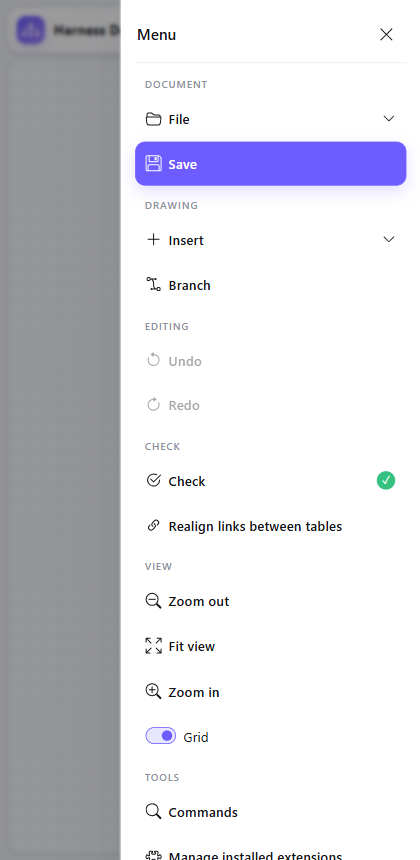
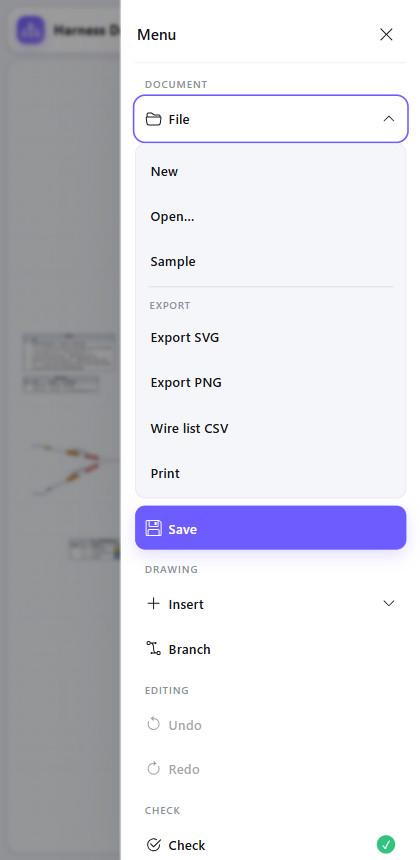
feat(ui): unfold submenus in place inside the drawer
On a phone a floating menu was the wrong answer twice: it covered the list it
came from, and it needed the drawer closed to have room. Sections now unfold
under the button that opened them, one at a time, and the drawer stays where it
was. On a wide screen the dropdown is unchanged.

diff --git a/src/ui/topbar.ts b/src/ui/topbar.ts
@@ -116,8 +116,70 @@ function brand(name: string, tagline: string): HTMLElement {
   return box;
 }
 
+/** True while the bar is a drawer rather than a row. */
+const inDrawer = (): boolean => window.innerWidth <= 860;
+
+/**
+ * Expands the entries in place, under the button that asked for them.
+ *
+ * In the drawer a floating menu would be the wrong answer twice: it covers the
+ * list it came from, and it has to close the drawer to have room. Unfolding
+ * keeps the place you were reading, which is how a menu on a phone behaves.
+ */
+function expandInline(anchor: HTMLElement, items: MenuItem[]): void {
+  const group = anchor.parentElement;
+  if (!group) return;
+  const existing = anchor.nextElementSibling;
+  const already = existing?.classList.contains("navsub") === true;
+
+  // one open section at a time, so the list never turns into a wall
+  group
+    .closest(".topbar__nav")
+    ?.querySelectorAll(".navsub")
+    .forEach((n) => n.remove());
+  group
+    .closest(".topbar__nav")
+    ?.querySelectorAll("[aria-expanded=true][aria-haspopup]")
+    .forEach((b) => b.setAttribute("aria-expanded", "false"));
+  if (already) {
+    anchor.setAttribute("aria-expanded", "false");
+    return;
+  }
+
+  const sub = document.createElement("div");
+  sub.className = "navsub";
+  for (const item of items) {
+    if ("separator" in item) {
+      const line = document.createElement("div");
+      line.className = "navsub__sep";
+      sub.appendChild(line);
+      continue;
+    }
+    if ("header" in item) {
+      const head = document.createElement("div");
+      head.className = "navsub__header";
+      head.textContent = item.header;
+      sub.appendChild(head);
+      continue;
+    }
+    const entry = document.createElement("button");
+    entry.type = "button";
+    entry.className = "btn navsub__item" + (item.danger ? " btn--danger" : "");
+    entry.disabled = item.disabled === true;
+    entry.textContent = item.label;
+    entry.addEventListener("click", item.run);
+    sub.appendChild(entry);
+  }
+  anchor.setAttribute("aria-expanded", "true");
+  anchor.after(sub);
+}
+
 /** Opens a menu anchored under the button that asked for it. */
 function dropdown(anchor: HTMLElement, items: MenuItem[]): void {
+  if (inDrawer()) {
+    expandInline(anchor, items);
+    return;
+  }
   const box = anchor.getBoundingClientRect();
   openMenu(box.left, box.bottom + 6, items);
 }
@@ -193,9 +255,14 @@ function createDrawer(t: AppContext["t"]): {
   burger.addEventListener("click", () => setOpen(!nav.classList.contains("is-open")));
   backdrop.addEventListener("click", close);
   closeBtn.addEventListener("click", close);
-  // choosing a command is the end of the errand the drawer was opened for
+  // Choosing a command is the end of the errand the drawer was opened for, so
+  // it closes. Unfolding a section is not: it is a step towards the command,
+  // and closing there would throw away what was just opened.
   nav.addEventListener("click", (ev) => {
-    if ((ev.target as HTMLElement).closest("button")) close();
+    const button = (ev.target as HTMLElement).closest("button");
+    if (!button || button === closeBtn) return;
+    if (button.hasAttribute("aria-haspopup")) return;
+    close();
   });
 
   const onKeyDown = (ev: KeyboardEvent): void => {
@@ -209,6 +276,10 @@ function createDrawer(t: AppContext["t"]): {
       backdrop.hidden = true;
       burger.setAttribute("aria-expanded", "false");
       nav.removeAttribute("inert");
+      // a section unfolded in the drawer has no place in a row: it would sit
+      // between two groups with nothing to explain it
+      nav.querySelectorAll(".navsub").forEach((n) => n.remove());
+      nav.querySelectorAll("[aria-haspopup]").forEach((b) => b.setAttribute("aria-expanded", "false"));
     } else if (!nav.classList.contains("is-open")) {
       nav.setAttribute("inert", "");
     }

diff --git a/src/styles/app.css b/src/styles/app.css
@@ -1312,6 +1312,44 @@ body {
     display: none;
   }
 
+  /* A section unfolded under its button: indented and on a tinted ground, so it
+     reads as belonging to the row above rather than as a new list. */
+  .navsub {
+    display: flex;
+    flex-direction: column;
+    gap: 1px;
+    margin: 2px 0 6px;
+    padding: 4px;
+    background: var(--surface-2);
+    border: 1px solid var(--border-soft);
+    border-radius: 10px;
+  }
+  .navsub__item {
+    justify-content: flex-start;
+    width: 100%;
+    min-height: 40px;
+    padding: 6px 10px 6px 22px;
+    border-radius: 8px;
+    font-size: 13px;
+  }
+  .navsub__header {
+    padding: 6px 10px 3px;
+    color: var(--txt-faint);
+    font-size: 10.5px;
+    font-weight: 600;
+    letter-spacing: 0.5px;
+    text-transform: uppercase;
+  }
+  .navsub__sep {
+    height: 1px;
+    margin: 3px 8px;
+    background: var(--border);
+  }
+  /* the chevron turns to point at what it opened */
+  .topbar__nav .btn[aria-expanded="true"] > .icon:last-child {
+    transform: rotate(180deg);
+  }
+
   /* outside the drawer the optional labels still give way to the icons */
   .topbar > .btn__label--optional,
   .brand__sub {

diff --git a/src/main.ts b/src/main.ts
@@ -20,7 +20,7 @@ import { renderReport } from "./ui/report";
 import { renderPluginsPanel } from "./ui/pluginsPanel";
 import { createPluginHost } from "./plugins/host";
 import { builtinExporters } from "./io/exporters";
-import { DOC_KEY, adoptLegacyAutosave, safeGet, safeSet } from "./io/storage";
+import { DOC_KEY, adoptAutosaveFrom, safeGet, safeSet } from "./io/storage";
 import { announceDocSaved, watchOtherTabs } from "./io/tabs";
 import { readDocFile } from "./io/file";
 import { closeAllPanels, initPanels, isPanelOpen, openPanel, refreshPanels } from "./ui/panel";
@@ -293,9 +293,9 @@ watchOtherTabs(() => toast.show(t("toast.otherTab")));
 /* ---------------- startup ---------------- */
 
 function initialDoc(): unknown {
-  // a drawing left open under a key an older build used is carried over rather
+  // a drawing left open under a key another build used is carried over rather
   // than silently abandoned
-  adoptLegacyAutosave(["harness.doc.v2", "harnessDoc"]);
+  adoptAutosaveFrom(["harness.doc.v2", "harnessDoc"]);
   const saved = safeGet(DOC_KEY);
   if (saved) {
     try {

diff --git a/src/io/storage.ts b/src/io/storage.ts
@@ -76,13 +76,13 @@ export function safeRemove(key: string): void {
 }
 
 /**
- * Carries an autosave written under an older key over to the current one.
+ * Carries an autosave written under a different key over to the current one.
  *
- * Losing the drawing someone left open, because a storage key was renamed
- * between builds, is not an acceptable way to ship a change. Runs once at
- * startup and does nothing when there is nothing to move.
+ * Losing the drawing someone left open, because a storage key changed between
+ * builds, is not an acceptable way to ship a change. Runs once at startup and
+ * does nothing when there is nothing to move.
  */
-export function adoptLegacyAutosave(oldKeys: readonly string[]): void {
+export function adoptAutosaveFrom(oldKeys: readonly string[]): void {
   if (safeGet(DOC_KEY)) return;
   for (const key of oldKeys) {
     const value = safeGet(key);
